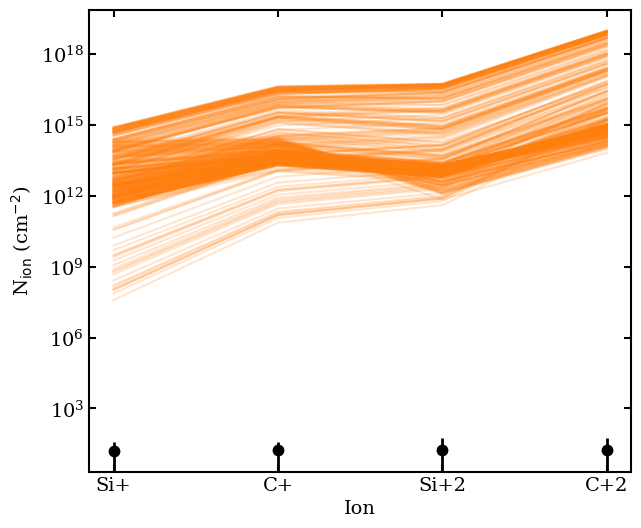
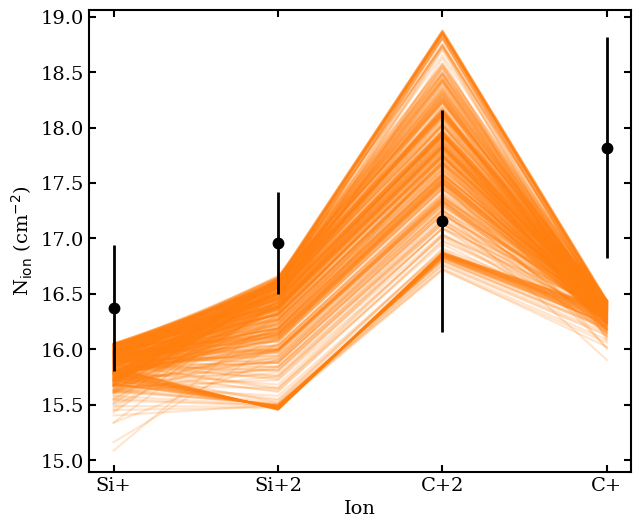
modified

diff --git a/cloudy/old/shubham_mcmc_nH_Z_2D_random_sample.py b/cloudy/old/shubham_mcmc_nH_Z_2D_random_sample.py
@@ -1,13 +1,13 @@
 #!/usr/bin/env python3
 # -*- coding: utf-8 -*-
 """
-Created on Mon Mar  1 18:07:59 2021
+Created on Thu Jul  1 19:46:44 2021
 
 @author: jarvis-astro
 """
 
-
 import numpy as np
+import random
 import astropy.table as tab
 from scipy.interpolate import interp1d
 from scipy.interpolate import interp2d
@@ -154,7 +154,7 @@ def run_mcmc(model_path, Q_uvb, ions_to_use, data_col=None, sigma_col=None, true
     # we are discarding some initial steps roughly 5 times the autocorr_time steps
     # then we thin by about half the autocorrelation time steps for plotting => one does not have to do this step
 
-    labels = ['log nH (in cm$\mathregular{^{-3}}$)', 'log Z (in $Z_{\odot}$)']
+    labels = ['log nH (cm$\mathregular{^{-3}}$)', 'log Z ($Z_{\odot}$)']
     #uvb_q= int((model_Q.split('try_Q')[-1]).split('.fits')[0])
 
     if Q_uvb == true_Q:
@@ -181,51 +181,133 @@ def run_mcmc(model_path, Q_uvb, ions_to_use, data_col=None, sigma_col=None, true
 
 
 
-#ions_to_use= ['Si+', 'C+', 'Si+2', 'C+2']
+# generating random 20 observations for all 4 ions
+random_col_SiII = []
+for i in range(0,20):
+    #n = random.randint(16,18)
+    n = round(random.uniform(16,18), 2)
+    random_col_SiII.append(n)
+#print(random_col_SiII)
+
+random_col_CII = []
+for i in range(0,20):
+    #n = random.randint(16,18)
+    n = round(random.uniform(16,18), 2)
+    random_col_CII.append(n)
+#print(random_col_CII)
+
+random_col_SiIII = []
+for i in range(0,20):
+    #n = random.randint(16,18)
+    n = round(random.uniform(16,18), 2)
+    random_col_SiIII.append(n)
+#print(random_col_SiIII)
+
+random_col_CIII = []
+for i in range(0,20):
+    #n = random.randint(16,18)
+    n = round(random.uniform(16,18), 2)
+    random_col_CIII.append(n)
+#print(random_col_CIII)
+
+random_sigma_SiII = []
+for i in range(0,20):
+    #n = random.randint(16,18)
+    n = round(random.uniform(0.2,0.5), 2)
+    random_sigma_SiII.append(n)
+#print(random_sigma_SiII)
+
+random_sigma_CII = []
+for i in range(0,20):
+    #n = random.randint(16,18)
+    n = round(random.uniform(0.2,0.5), 2)
+    random_sigma_CII.append(n)
+#print(random_sigma_CII)
+
+random_sigma_SiIII = []
+for i in range(0,20):
+    #n = random.randint(16,18)
+    n = round(random.uniform(0.2,0.5), 2)
+    random_sigma_SiIII.append(n)
+#print(random_sigma_SiIII)
+
+random_sigma_CIII = []
+for i in range(0,20):
+    #n = random.randint(16,18)
+    n = round(random.uniform(0.2,0.5), 2)
+    random_sigma_CIII.append(n)
+#print(random_sigma_CIII)
+
+
+col = np.array([random_col_SiII, random_col_CII, random_col_SiIII, random_col_CIII])
+#print(col)
+#print(col[:,0])
+col_1 = []
+for i in range(len(random_col_SiII)):
+#    col = []
+    col_2 = col[:,i]
+    col_1.append(col_2)
+#    print(col)
+data_col = np.array(col_1)
+print('data_col: ', data_col)
+
+sigma = np.array([random_sigma_SiII, random_sigma_CII, random_sigma_SiIII, random_sigma_CIII])
+#print(sigma)
+#print(sigma[:,0])
+sigma_1 = []
+for i in range(len(random_sigma_SiII)):
+#    sigma = []
+    sigma_2 = sigma[:,i]
+    sigma_1.append(sigma_2)
+#    print(col)
+sigma_col = np.array(sigma_1)
+print('sigma_col: ', sigma_col)
+
+
+ions_to_use= ['Si+', 'C+', 'Si+2', 'C+2']
 #data_col = np.array([16.37, 17.82, 16.96, 17.16])
 #sigma_col = np.array([0.57, 0.46, 1, 1])
-ions_to_use= ['Si+', 'C+']
-data_col = np.array([16.37, 17.82])
-sigma_col = np.array([0.57, 0.46])
 true_Q =18
 
 outpath = '/home/jarvis-astro/cloudy_run/figures'
 model_path  = '/home/jarvis-astro/cloudy_run/metal_NH18_85'
-outfile = outpath + '/metal_NH18_85_2D.fits'
+#outfile = outpath + '/metal_NH18_85_2D' + '.fits'
 
 uvb_array = ['KS18']
 Q_array= [18]
 
-out_tab =  tab.Table()
-for uvb, q in zip(uvb_array, Q_array):
-    name =uvb + '_Q{}'.format(q)
-    figname = outpath + '/' + name + '.pdf'
+#out_tab =  tab.Table()
+for j in range(0, len(random_sigma_SiII)):
+    for uvb, q in zip(uvb_array, Q_array):
+        name = uvb + '_Q{}'.format(q)
+        #    for j in range(0, len(random_sigma_SiII) - 1):
+        figname = outpath + '/' + name + '_' + str(j) +  '.pdf'
 
-    flat_samples, ndim = run_mcmc(model_path= model_path, Q_uvb=q, ions_to_use=ions_to_use,
-                                  data_col=data_col, sigma_col=sigma_col, true_Q=true_Q,
-                                  figname=figname, uvb = uvb)
-    # to efficiently save numpy array
-    save_file_name = outpath + '/' + name
-    np.save(save_file_name, flat_samples)
+        flat_samples, ndim = run_mcmc(model_path= model_path, Q_uvb=q, ions_to_use=ions_to_use,
+                                      data_col=data_col[j], sigma_col=sigma_col[j], true_Q=true_Q,
+                                      figname=figname, uvb = uvb)
+        # to efficiently save numpy array
+        save_file_name = outpath + '/' + name + '_' + str(j)
+        np.save(save_file_name, flat_samples)
 
-    out =[[q]]
-    for i in range(ndim):
-        mcmc = np.percentile(flat_samples[:, i], [16, 50, 84])
-        q = np.diff(mcmc)
-        out.append([mcmc[1]])
-        out.append([q[0]])
-        out.append([q[1]])
+        out =[[q]]
+        for i in range(ndim):
+            mcmc = np.percentile(flat_samples[:, i], [16, 50, 84])
+            q = np.diff(mcmc)
+            out.append([mcmc[1]])
+            out.append([q[0]])
+            out.append([q[1]])
+        out_tab =  tab.Table()
+        print(out)
+        t = tab.Table(out, names = ('Q', 'nH', 'n16', 'n84', 'Z', 'Z16', 'Z84'))
+        out_tab = tab.vstack((out_tab, t))
 
-    print(out)
-    t = tab.Table(out, names = ('Q', 'nH', 'n16', 'n84', 'Z', 'Z16', 'Z84'))
-    out_tab = tab.vstack((out_tab, t))
 
+    outfile = outpath + '/metal_NH18_85_2D' + '_' + str(j) + '.fits'
+    uvb_column = ['Q18']
+    out_tab.add_column(uvb_column, name = 'uvb')
 
-
-uvb_column = ['Q18']
-out_tab.add_column(uvb_column, name = 'uvb')
-
-out_tab.write(outfile, overwrite = True)
+    out_tab.write(outfile, overwrite = True)
 
 
 """

diff --git a/cloudy/old/shubham_mcmc_sample_check.py b/cloudy/old/shubham_mcmc_sample_check.py
@@ -54,7 +54,7 @@ def get_interp_func(model_path, ions_to_use, Q_uvb = 18, uvb = 'KS18'):
             sorted_model[sorted_model == 0 ] = 1e-15 # for avoiding log10 (0) error
             z [:, i] = np.log10(sorted_model) #--- for log - log interpolation
 #        logf = interp2d(lognH, logZ, np.log10(model_touple), fill_value='extrapolate')
-        logf = interp2d(lognH, logZ, z.T, fill_value='extrapolate')
+        logf = interp2d(lognH, logZ, z.T)
 
         interpolation_function_list.append(logf)
 #    return logf
@@ -76,22 +76,33 @@ def sample_plot(npy_file, interp_logf, true_ions, true_col, true_sigma, figname 
 
     flat_samples = np.load(npy_file)
     inds = np.random.randint(len(flat_samples), size=samples)
+    
+
+#    model_col  = np.array(col)
+    
     for ind in inds:
         sample = flat_samples[ind]
         lognH, logZ = sample
-        col = 10 ** interp_logf(lognH,logZ)[0]
+#        print(lognH)
+#        print(logZ)
+        col = []
+        for i in range(len(true_col)):
+#            print(i)
+            col_mod = 10 ** interp_logf[i](lognH,logZ)[0]
+            col.append(col_mod)
+        col_m = np.array(col)
         # scale the column densities by the metallicity Z
-        metal_scaling_linear = 10 ** logZ / 10 ** reference_log_metal
-        model_col = col * metal_scaling_linear
-        ax.plot(true_ions, model_col,  "C1", alpha=0.2)
+#        metal_scaling_linear = 10 ** logZ / 10 ** reference_log_metal
+#        model_col = col_m * metal_scaling_linear
+        ax.plot(true_ions, np.log10(col_m),  "C1", alpha=0.2)
 
-    ax.errorbar(true_ions, true_col, yerr = (true_col*true_sigma)*2.303, color = 'k', elinewidth =2, marker = '.',  markersize = 15,
+    ax.errorbar(true_ions, true_col, yerr = true_sigma, color = 'k', elinewidth =2, marker = '.',  markersize = 15,
                 linestyle = '', zorder =1000)
 
     ax.set_xlabel('Ion')
     ax.set_ylabel(r'N$_{\rm ion}$ (cm$^{-2}$)')
     # ax.set_xscale('log')
-    ax.set_yscale('log')
+#    ax.set_yscale('log')
 
     # deco
     ax.tick_params(direction='in', length=5, width=1.5)
@@ -108,7 +119,7 @@ def sample_plot(npy_file, interp_logf, true_ions, true_col, true_sigma, figname 
 
 
 
-def get_mcmc_sample(model_path, ions_to_use, npyfile,  true_Q =18, figname = 'test.png', same_error = False):
+def get_mcmc_sample(model_path, ions_to_use, data_col, sigma_col, npyfile,  true_Q =18, figname = 'test.png', same_error = False):
     # run_mcmc(model_Q= model, ions_to_use= ions)
     # ------------------ here is a way to run code
     number_of_ions = len(ions_to_use)
@@ -154,12 +165,14 @@ logZ = np.around(np.arange(-2, 1, 0.2), decimals = 2)
 ions_to_use = ['Si+', 'C+', 'Si+2', 'C+2']
 data_col = np.array([16.37, 17.82, 16.96, 17.16])
 sigma_col = np.array([0.57, 0.46, 1, 1])
-ions_to_use = ions_to_use[np.argsort(data_col)]
+ions_to_use = np.array(ions_to_use)[np.argsort(data_col)]
 print(ions_to_use, ': sorted ions_to_use')
+data_col = data_col[np.argsort(data_col)]
+print(data_col, ': sorted data_col')
 sigma_col = sigma_col[np.argsort(data_col)]
 print(sigma_col, ': sorted sigma_col')
 true_Q =18
 
 npyfile = '/home/jarvis-astro/cloudy_run/figures/without_limits/KS18_Q{}.npy'.format(Q_uvb)
 
-get_mcmc_sample(model_path, ions_to_use, npyfile, figname= 'test18_85_sample.png')
+get_mcmc_sample(model_path, ions_to_use, data_col, sigma_col, npyfile, figname= 'test18_85_sample.png')

diff --git a/cloudy/old/shubham_cloudy_run_metal_grid.py b/cloudy/old/shubham_cloudy_run_metal_grid.py
@@ -15,13 +15,13 @@ os.environ["VECLIB_MAXIMUM_THREADS"] = "1"
 os.environ["OPENBLAS_NUM_THREADS"] = "1"
 os.environ["MKL_NUM_THREADS"] = "1"
 #-----------------
-from cloudy.shubham_cloudy_run import write_input
-from cloudy.shubham_cloudy_run import run
-from cloudy.shubham_cloudy_run import store_table
-from cloudy.shubham_cloudy_run import cloudy_params_defaults
+from shubham_cloudy_run import write_input
+from shubham_cloudy_run import run
+from shubham_cloudy_run import store_table
+from shubham_cloudy_run import cloudy_params_defaults
 import multiprocessing as mp
 import numpy as np
-from cloudy.write_uvb_in_cloudy_format import write_uvb_in_cloudy_format
+from write_uvb_in_cloudy_format import write_uvb_in_cloudy_format
 import astropy.table as tab
 
 def uvb_files(file_name, **kwargs):
@@ -104,11 +104,11 @@ for background in uvb:
 
 #-----write uvb fg and hm in cloudy format first
 path = '/home/jarvis-astro/cloudy_run/metal_NH18_65/'
-kwagrs = {'uvb' : 'P19', 'z' : 0.2}
-uvb_files(path, **kwagrs)
+#kwagrs = {'uvb' : 'P19', 'z' : 0.2}
+#uvb_files(path, **kwagrs)
 
-kwagrs = {'uvb' : 'FG20', 'z' : 0.2}
-uvb_files(path, **kwagrs)
+#kwagrs = {'uvb' : 'FG20', 'z' : 0.2}
+#uvb_files(path, **kwagrs)
 
 
 pool = mp.Pool(processes=4)

diff --git a/cloudy/old/shubham_cloudy_run.py b/cloudy/old/shubham_cloudy_run.py
@@ -12,7 +12,7 @@ import os
 import numpy as np
 import astropy.table as tab
 import subprocess
-from cloudy.write_uvb_in_cloudy_format import write_uvb_in_cloudy_format
+from write_uvb_in_cloudy_format import write_uvb_in_cloudy_format
 
 def find_nearest_index(array, value):
     array = np.asarray(array)
